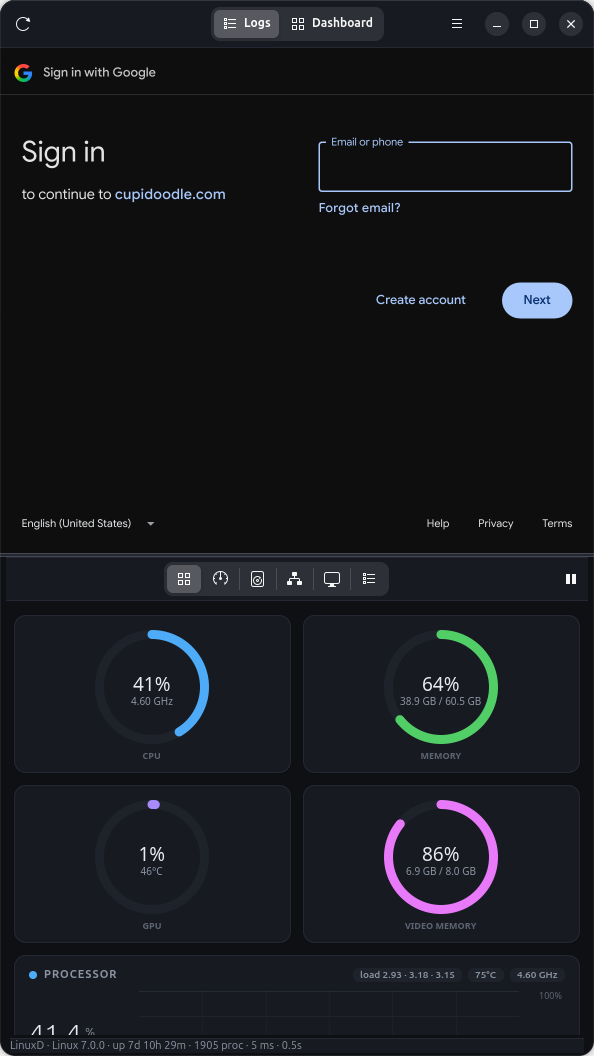
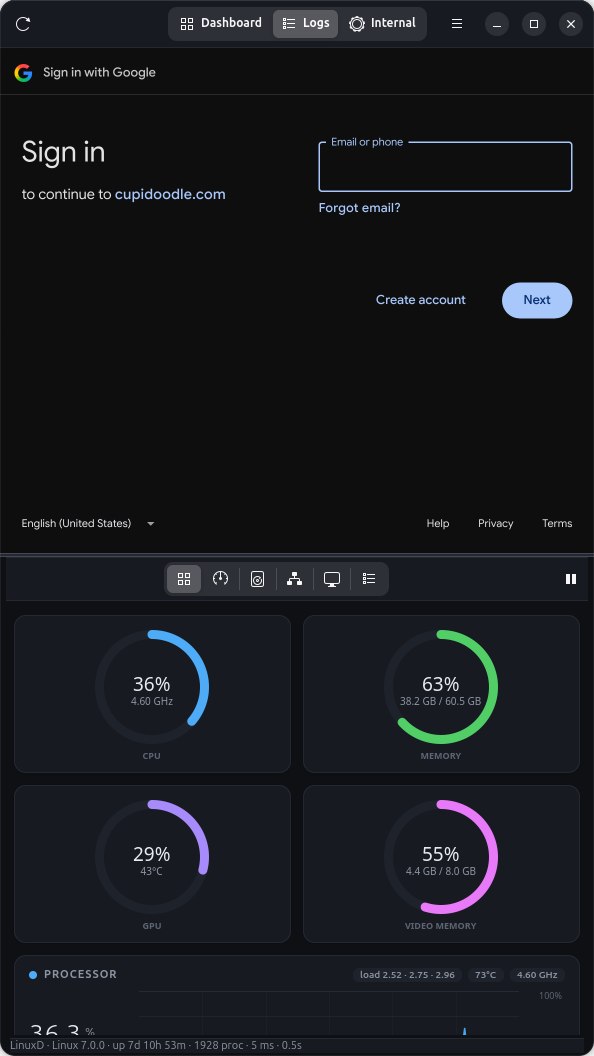
Open on the Dashboard tab and add an Internal tab
The dashboard is what gets looked at first, so it now leads the tab list
and is what the window opens on, with Logs second. The new Internal tab
points at the section index; it resolves to the same host as the other
two, so it shares their session and needs no separate sign-in.

Tab order alone drives the switcher, the Alt+<n> shortcuts and which tab
loads eagerly, so nothing else had to change. The capture tool now forces
a non-unique GApplication instance, since a running Vitals was absorbing
the launch and leaving the screenshots untouched.

diff --git a/tools/capture.py b/tools/capture.py
@@ -16,7 +16,7 @@ sys.path.insert(0, str(pathlib.Path(__file__).resolve().parent.parent))
 
 gi.require_version("Gtk", "4.0")
 gi.require_version("Adw", "1")
-from gi.repository import GLib, Gtk  # noqa: E402
+from gi.repository import Gio, GLib, Gtk  # noqa: E402
 
 from vitals.app import VitalsApp, VitalsWindow  # noqa: E402
 from vitals.sampler import Sampler  # noqa: E402
@@ -47,6 +47,9 @@ def capture(window: Gtk.Window, path: pathlib.Path) -> bool:
 def main() -> int:
     OUT_DIR.mkdir(parents=True, exist_ok=True)
     app = VitalsApp()
+    # Without this, an already running Vitals takes over the launch through
+    # GApplication's single-instance handling and nothing gets captured.
+    app.set_flags(app.get_flags() | Gio.ApplicationFlags.NON_UNIQUE)
 
     def on_activate(_app) -> None:
         app.sampler = Sampler()
@@ -66,7 +69,8 @@ def main() -> int:
                     window.monitor.process_page.search.set_text(PROCESS_FILTER)
             return name, run
 
-        queue = [step("logs-overview", "overview", "logs")]
+        queue = [step(f"tab-{tab}", "overview", tab)
+                 for tab in ("logs", "internal", "dashboard")]
         queue += [step(f"dashboard-{page}", page, "dashboard") for page in PAGES]
 
         def next_shot() -> bool:

diff --git a/vitals/config.py b/vitals/config.py
@@ -6,12 +6,15 @@ APP_ID = "dev.favoratti.Vitals"
 APP_NAME = "Vitals"
 VERSION = "2.0.0"
 
-# The two pages of the internal web console, in tab order.
+# The pages of the internal web console, in tab order. The first one is the tab
+# the window opens on.
 TABS = (
-    ("logs", "Logs", "view-list-symbolic",
-     "https://cupidoodle.com/internal/logs"),
     ("dashboard", "Dashboard", "view-grid-symbolic",
      "https://cupidoodle.com/internal/dashboard"),
+    ("logs", "Logs", "view-list-symbolic",
+     "https://cupidoodle.com/internal/logs"),
+    ("internal", "Internal", "emblem-system-symbolic",
+     "https://www.cupidoodle.com/internal"),
 )
 
 INTERVALS = (500, 1000, 2000, 3000)

diff --git a/README.md b/README.md
@@ -1,9 +1,9 @@
 # Vitals
 
 A 9:16 portrait desk panel for Linux. The top half is an internal web console
-with two tabs (Logs and Dashboard); the bottom half is a real-time system
-monitor covering CPU per core, memory, swap, network, disk, processes and GPU —
-including video processor load and video memory.
+with three tabs (Dashboard, Logs and Internal); the bottom half is a real-time
+system monitor covering CPU per core, memory, swap, network, disk, processes and
+GPU — including video processor load and video memory.
 
 Built with GTK4 + libadwaita, WebKitGTK and PyGObject. Charts are drawn directly
 with GSK, so there is no charting dependency and rendering is GPU-accelerated.
@@ -19,10 +19,11 @@ with GSK, so there is no charting dependency and rendering is GPU-accelerated.
 The window opens as a 9:16 portrait sized to the screen it lands on, split in
 half by a draggable divider:
 
-🌐 **Web console (top)** — two tabs, `internal/logs` and `internal/dashboard`.
-Both share one browsing session, so signing in once covers both tabs and the
-login survives a restart. A thin progress bar tracks loading, and HTTP errors
-get a readable screen with retry and sign-in buttons instead of a blank page.
+🌐 **Web console (top)** — three tabs: `internal/dashboard` (the one it opens
+on), `internal/logs` and `internal`. They share one browsing session, so signing
+in once covers all of them and the login survives a restart. A thin progress bar
+tracks loading, and HTTP errors get a readable screen with retry and sign-in
+buttons instead of a blank page.
 
 📈 **System monitor (bottom)** — the six pages below, on an icon switcher.
 
@@ -103,7 +104,7 @@ To install a desktop launcher for the current user:
 
 | Shortcut | Action |
 | --- | --- |
-| `Alt+1`, `Alt+2` | Switch to the Logs or Dashboard tab |
+| `Alt+1` – `Alt+3` | Switch to the Dashboard, Logs or Internal tab |
 | `Ctrl+R` | Reload the current web tab |
 | `Alt+←` | Go back in the current web tab |
 | `Ctrl++`, `Ctrl+-`, `Ctrl+0` | Zoom the web console in, out, or back to default |
@@ -131,8 +132,8 @@ Sampling is deliberately cheap so the monitor does not distort what it measures:
   on a background thread, rather than spawning a process per tick.
 - The process table is only refreshed while its page is visible; other pages
   need just the counters.
-- Web tabs load on first use, so the second web process only starts when you
-  switch to it.
+- Web tabs load on first use, so the other web processes only start when you
+  switch to them.
 
 Measured on a machine with ~1850 processes: about 4 ms per tick for the
 whole-system metrics and about 34 ms when the full process list is included.
@@ -177,12 +178,20 @@ python3 tools/capture.py /tmp/shots    # screenshot each tab/page combination
 
 ## Changing the URLs
 
-Both tab URLs live in `vitals/config.py`:
+The tabs live in `vitals/config.py`, in the order they appear. The first entry is
+the tab the window opens on, and `Alt+<n>` follows the same order:
 
 ```python
 TABS = (
-    ("logs", "Logs", "view-list-symbolic", "https://cupidoodle.com/internal/logs"),
     ("dashboard", "Dashboard", "view-grid-symbolic",
      "https://cupidoodle.com/internal/dashboard"),
+    ("logs", "Logs", "view-list-symbolic",
+     "https://cupidoodle.com/internal/logs"),
+    ("internal", "Internal", "emblem-system-symbolic",
+     "https://www.cupidoodle.com/internal"),
 )
 ```
+
+Adding or removing an entry is enough: the switcher, the shortcuts and the
+lazy-loading all follow. Icon names must exist in the current icon theme, or
+the switcher shows a missing-image box.
